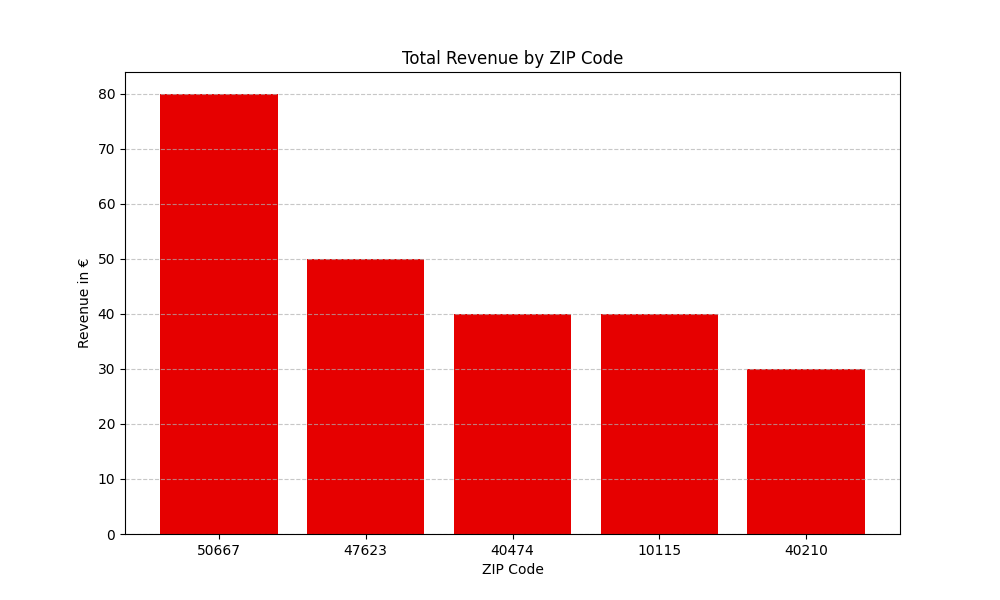
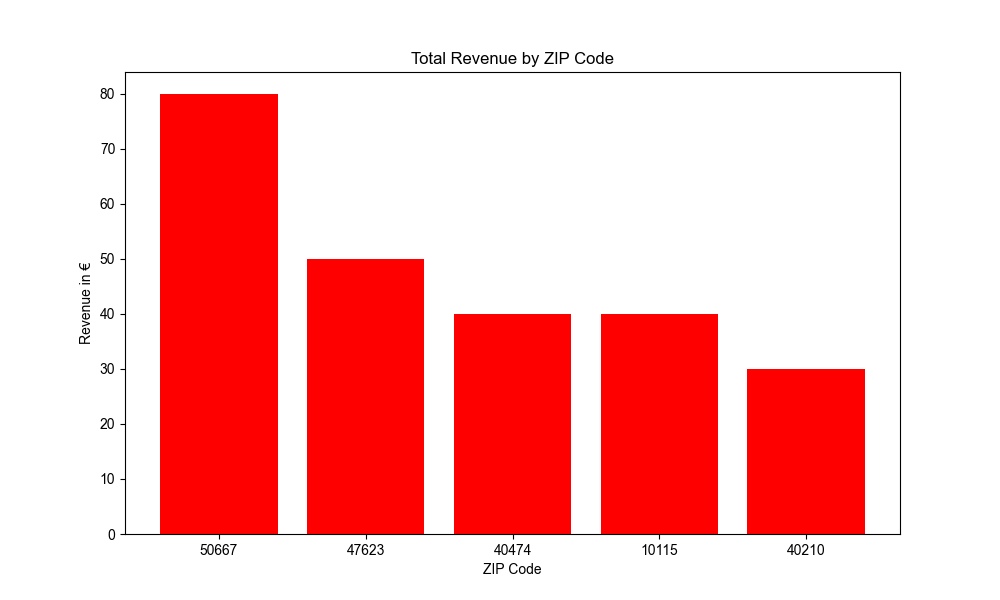
added customers with upgrade potential, general fixes

diff --git a/visualization.py b/visualization.py
@@ -1,15 +1,19 @@
 import sqlite3 as lite
 import pandas as pd
 import matplotlib.pyplot as plt
-# define database path
+import seaborn as sns
+
+# Name der Datei
 db_path = 'data.db'
+#stellt connection zur Datei her
 conn = lite.connect(db_path)
+#curser initialisieren
 cursor = conn.cursor()
 
 #Visualisierung: Umsatz sortiert nach PLZ
 
 df_revenue = pd.read_sql_query("""
-    SELECT c.zip_code, SUM(p.Plan_price) AS Total_Revenue
+    SELECT c.zip_code, SUM(p.Plan_price) AS Total_Revenue       --summiert den Preis pro zip-code
     FROM customer c
     JOIN Contracts con ON c.customer_id = con.customer_id
     JOIN Plans p ON con.Plan_id = p.Plan_id
@@ -18,37 +22,73 @@ df_revenue = pd.read_sql_query("""
 """, conn)
 
 plt.figure(figsize=(10, 6))
-# casting zip code zum string
-plt.bar(df_revenue['zip_code'].astype(str), df_revenue['Total_Revenue'], color='#E60000')
+# casting zip code zum string, um Visualisierung zu ermöglichen -> Sonst (Zip-Code1 1 2 3... Zip-Code2)
+plt.bar(df_revenue['zip_code'].astype(str), df_revenue['Total_Revenue'], color='red')
+#                      x-Achse                      y-Achse                     rot
+
+#Beschreibung
 plt.title('Total Revenue by ZIP Code')
 plt.xlabel('ZIP Code')
 plt.ylabel('Revenue in €')
-plt.grid(axis='y', linestyle='--', alpha=0.7)
-plt.savefig('revenue_chart.png') # Speichert das Bild
-plt.show()
+sns.set_style("whitegrid")
+plt.savefig('revenue_chart.png')            # Speichert das Bild
+#Schließen, um Speicher zu sparen
+plt.close()
 
 
 #Visualisierung: Kunde, der 60% oder weniger seines Volumens verbraucht gilt als High-Risk-Customer
 df_risk = pd.read_sql_query("""SELECT
     c.name, c.surname, u.GB_consumed, p.data_limit_GB, p.Plan_name, p.Plan_price,
-    (u.GB_consumed * 100.0 / p.data_limit_GB) AS usage_percentage
+    (u.GB_consumed * 100.0 / p.data_limit_GB) AS usage_percentage       --wie viel % des Datenvolumen verbraucht wurde
 
 
 FROM customer c
     JOIN Contracts con ON c.customer_id = con.customer_id
     JOIN Plans p ON con.Plan_id = p.Plan_id
     JOIN usage u ON con.Contract_id = u.Contract_id
-WHERE u.GB_consumed < (p.data_limit_GB * 0.6)
-    AND con.Status = 'Active'
+WHERE u.GB_consumed < (p.data_limit_GB * 0.6)       -- wenn verbrauchtes Volumen weniger als 60% des Tarifes sind
+    AND con.Status = 'Active'                       --Kunde muss aktiven Vertrag haben
 ORDER BY p.Plan_price DESC;""", conn)
 
-
+#Größe
 plt.figure(figsize=(10, 6))
 
-plt.bar(df_risk['name'], df_risk['usage_percentage'], color='#E60000')
+sns.barplot(data = df_risk, x = 'name', y = 'usage_percentage', hue = 'Plan_name')
+#              datenquelle         x           y                 zeigt den Vertrag an
+
+#Beschreibung
 plt.title('High-Risk-Customers')
 plt.xlabel('Customer Name')
 plt.ylabel('Usage in %')
-plt.grid(axis='y', linestyle='--', alpha=0.7)
+sns.set_style("whitegrid")
 plt.savefig('risk_chart.png')
-plt.show()
+#schließen, um Speicher zu sparen
+plt.close()
+
+#Logik: Wenn 80% oder mehr des Datenvolumens verbraucht werden, dann wird ein Upgrade vorgeschlagen
+df_upgrade = pd.read_sql_query("""SELECT
+    c.name, c.surname, u.GB_consumed, p.data_limit_GB, p.Plan_name,
+        (u.GB_consumed * 100.0 / p.data_limit_GB) AS usage_percentage       --wie viel % des Datenvolumen verbraucht wurde
+
+
+FROM customer c
+    JOIN Contracts con ON c.customer_id = con.customer_id
+    JOIN Plans p ON con.Plan_id = p.Plan_id
+    JOIN usage u ON con.Contract_id = u.Contract_id
+WHERE u.GB_consumed > (p.data_limit_GB * 0.8)       --verbrauchtes Datenvolumen wird mit 80% des Limits verglichen
+ORDER BY u.GB_consumed DESC;""", conn)
+
+
+plt.figure(figsize=(10, 6))
+sns.barplot(data = df_upgrade, x = 'name', y = 'usage_percentage', hue = 'Plan_name')
+#               Datenquelle         x               y                   zeigt die Vertrags Namen
+
+#Beschreibung
+plt.title('Customers with Upgrade potential')
+plt.xlabel('Customer Name')
+plt.ylabel('Usage in %')
+sns.set_style("whitegrid")
+#Speicherng
+plt.savefig('upgrade_chart.png')
+#Schließen, um Speicher zu sparen
+plt.close()

diff --git a/fill_db.py b/fill_db.py
@@ -1,19 +1,19 @@
 import sqlite3 as lite
-import pandas as pd
-import matplotlib.pyplot as plt
 # define database path
 db_path = 'data.db'
 conn = lite.connect(db_path)
 cursor = conn.cursor()
 
+#lösche alle Einträge zum Schutz vor Duplikaten
 cursor.execute("DROP TABLE IF EXISTS usage")
 cursor.execute("DROP TABLE IF EXISTS Contracts")
 cursor.execute("DROP TABLE IF EXISTS Plans")
 cursor.execute("DROP TABLE IF EXISTS customer")
 
 
+#SQL Befehle werden an Datenbank übergeben, falls diese noch nicht existieren
 cursor.execute("""CREATE TABLE IF NOT EXISTS customer(
-                         customer_id INTEGER PRIMARY KEY AUTOINCREMENT ,
+                         customer_id INTEGER PRIMARY KEY AUTOINCREMENT ,    --einzigartige id
                          name TEXT,
                          surname TEXT,
                          zip_code INTEGER,
@@ -21,32 +21,33 @@ cursor.execute("""CREATE TABLE IF NOT EXISTS customer(
 );""")
 
 cursor.execute("""CREATE TABLE IF NOT EXISTS Plans(
-                      Plan_id INTEGER PRIMARY KEY AUTOINCREMENT ,
+                      Plan_id INTEGER PRIMARY KEY AUTOINCREMENT ,       --einzigartige id
                       Plan_name TEXT,
-                      Plan_price DECIMAL(10,2),
+                      Plan_price DECIMAL(10,2),     --genau 2 Nachkommastellen
                       data_limit_GB INTEGER
 );""")
 
 cursor.execute("""CREATE TABLE IF NOT EXISTS Contracts(
-                    Contract_ID INTEGER PRIMARY KEY AUTOINCREMENT,
+                    Contract_ID INTEGER PRIMARY KEY AUTOINCREMENT,      --einzigartige id
                     customer_id INTEGER,
                     Plan_id INTEGER,
                     Status TEXT, --'Active' or 'Canceled'
-                    Device_Option TEXT, -- 'iPhone', 'Android' or 'Sim-Only'
+                    Device_Option TEXT, -- 'iPhone', 'Android' oder 'Sim-Only'
                     Start_date DATE,
-                    FOREIGN KEY (customer_id) REFERENCES customer(customer_id),
-                    FOREIGN KEY (Plan_id) REFERENCES Plans(Plan_id)
+                    FOREIGN KEY (customer_id) REFERENCES customer(customer_id), --Kontrolle, ob id valide ist
+                    FOREIGN KEY (Plan_id) REFERENCES Plans(Plan_id)     --Kontrolle, ob id valide ist
 
 );""")
 
 cursor.execute("""CREATE TABLE IF NOT EXISTS usage(
-    Log_id INTEGER PRIMARY KEY AUTOINCREMENT ,
+    Log_id INTEGER PRIMARY KEY AUTOINCREMENT ,      --einzigartige id
     Contract_id INTEGER,
     Billing_Month TEXT,
-    GB_consumed DECIMAL(10, 2),
-    FOREIGN KEY (Contract_ID) REFERENCES Contracts(Contract_ID)
+    GB_consumed DECIMAL(10, 2),     --genau 2 Nachkommastellen
+    FOREIGN KEY (Contract_ID) REFERENCES Contracts(Contract_ID)     --Kontrolle, ob id valide ist
 );""")
 
+#Füllung der Tables
 cursor.execute("""INSERT OR IGNORE INTO customer (name, surname, zip_code, registration_date) VALUES
                                                                       ('Max', 'Mustermann', 40474, '2022-01-15'),
                                                                       ('Erika', 'Schmidt', 40210, '2023-05-20'),
@@ -74,7 +75,9 @@ cursor.execute("""INSERT OR IGNORE INTO usage (Contract_id, Billing_Month, GB_co
                                                                 (3, '2026-03', 10.5), -- Joshua (Limit 25GB): Alles okay.
                                                                 (5, '2026-03', 3.0);  -- Sarah (Limit 12GB): Nutzt wenig.""")
 
+#Speicherung
 conn.commit()
+#Schließe die Connection um Speicher zu sparen
 conn.close()
 
 

diff --git a/evaluation.py b/evaluation.py
@@ -1,13 +1,13 @@
 import sqlite3 as lite
-import pandas as pd
-import matplotlib.pyplot as plt
-# define database path
+# Name der Datei
 db_path = 'data.db'
+#Datei wird geladen
 conn = lite.connect(db_path)
+#curser definiert
 cursor = conn.cursor()
 
 print("\n--- Auswertung abgeschlossen ---")
-print("Data for visualization")
+print("PLZ nach Umsatz:")
 
 #Logik: PLZ mit jeweiligen Umsatz wird sortiert aufgelistet
 cursor.execute("""SELECT c.zip_code, SUM(p.Plan_price) AS Total_Revenue
@@ -22,15 +22,16 @@ for row in rows:
     print(row)
 
 #average revenue per user
-print("ARPU:")
+print("Average Revenue Per User:")
 
 #Logik: ARPU = Gesamterlös / Anzahl Aktiver Kunden
 cursor.execute("""SELECT AVG(p.Plan_price) AS ARPU
     FROM Contracts con
         JOIN Plans p ON con.Plan_id = p.Plan_id
-WHERE con.Status = 'Active';""")
+WHERE con.Status = 'Active';""")        #Kunde muss aktiv sein
 
 rows = cursor.fetchall()
+#printen alle rows
 for row in rows:
     print(row)
 
@@ -46,29 +47,31 @@ FROM customer c
     JOIN Contracts con ON c.customer_id = con.customer_id
     JOIN Plans p ON con.Plan_id = p.Plan_id
     JOIN usage u ON con.Contract_id = u.Contract_id
-WHERE u.GB_consumed > (p.data_limit_GB * 0.9)
+WHERE u.GB_consumed > (p.data_limit_GB * 0.9)       --Vergleich zwischen verbrauchten Volumen und 90% des verfügbaren
 ORDER BY u.GB_consumed DESC;""")
 
 rows = cursor.fetchall()
+#printen alle rows
 for row in rows:
     print(row)
 
 #premium client that pays more than ARPU
-print("Premiun Clients that pay more than ARPU")
+print("Premium Clients that pay more than ARPU")
 cursor.execute("""SELECT c.name, c.surname, p.Plan_name, p.Plan_price
     FROM customer c
         JOIN Contracts con ON c.customer_id = con.customer_id
         JOIN Plans p ON con.Plan_id = p.Plan_id
-            WHERE con.Status = 'Active'
-            AND p.Plan_price > (SELECT AVG(p2.Plan_price)
+            WHERE con.Status = 'Active'         --bis hier wurde der ARPU von allen Aktiven Kunden berechnet
+            AND p.Plan_price > (SELECT AVG(p2.Plan_price)       --ARPU wird mit jedem Kunden verglichen, nur wer höher ist kommt weiter
         FROM Contracts con2
         JOIN Plans p2 ON con2.Plan_id = p2.Plan_id
-    WHERE con2.Status = 'Active'
+    WHERE con2.Status = 'Active'                    --Überprüfung, ob Kunde aktiv ist
     )
 ORDER BY p.Plan_price DESC;
 """)
 
 rows = cursor.fetchall()
+#printet alle rows
 for row in rows:
     print(row)
 
@@ -83,9 +86,10 @@ FROM customer c
     JOIN Contracts con ON c.customer_id = con.customer_id
     JOIN Plans p ON con.Plan_id = p.Plan_id
     JOIN usage u ON con.Contract_id = u.Contract_id
-WHERE u.GB_consumed < (p.data_limit_GB * 0.6)
+WHERE u.GB_consumed < (p.data_limit_GB * 0.6)       --verbrauchtes Volumen wird mit 60% des Maximalvolumen verglichen
 ORDER BY u.GB_consumed DESC;""")
 
 rows = cursor.fetchall()
+#printet alle rows
 for row in rows:
     print(row)
